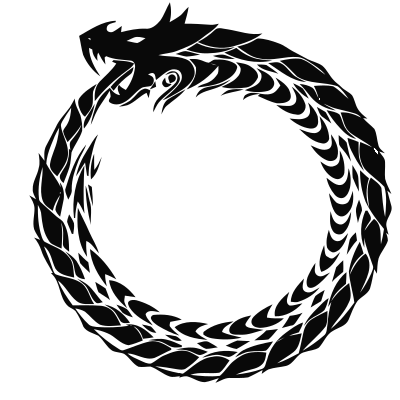
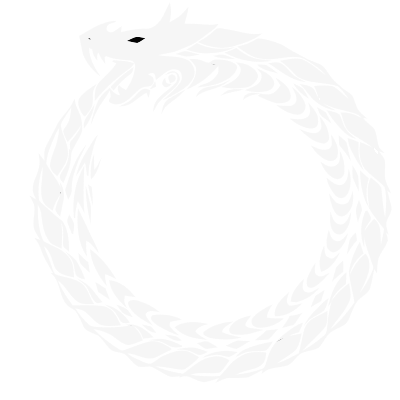
feat: Dark mode.

Changed region(s): [[0.06, 0.0, 0.99, 0.96]]

diff --git a/modules/server/nginx/sefirah/style.css b/modules/server/nginx/sefirah/style.css
@@ -1,3 +1,7 @@
+body {
+  background-color: black;
+}
+
 .center {
   display: flex;
   justify-content: center;
@@ -6,6 +10,7 @@
 }
 
 .ouroboros {
-  width: 10%;
   vertical-align: middle;
+  width: 200px;
+  height: 200px;
 }
